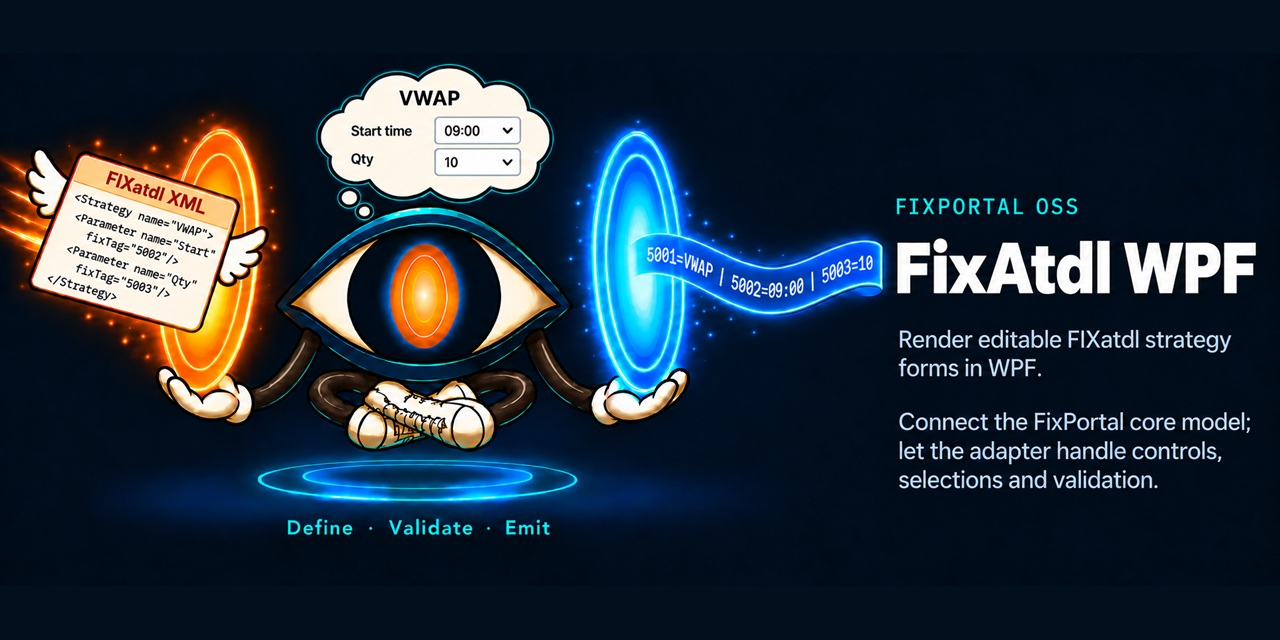
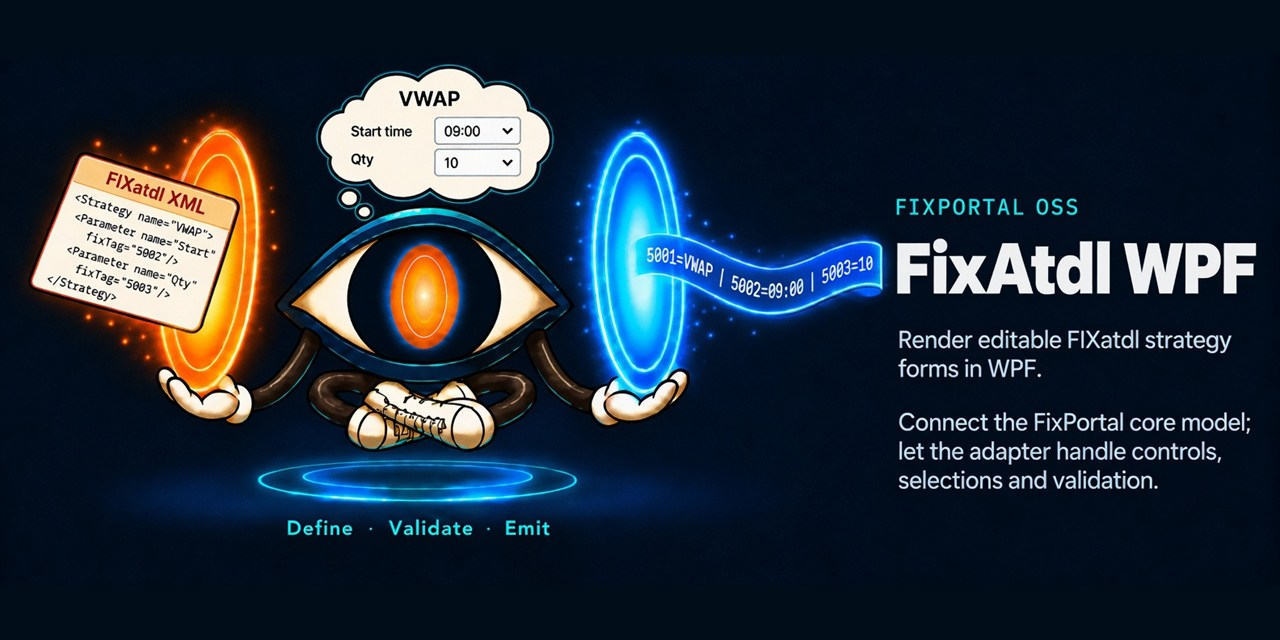
docs: drop wings from the README hero
The XML card on the banner no longer has angel wings. Same
composition, same README URL. Social preview regenerated to match.

diff --git a/CHANGELOG.md b/CHANGELOG.md
@@ -46,6 +46,8 @@ sees. Both packages version together.
   moved from `1,3,1,3` to `2,5,2,5`.
 - Control labels are vertically centred against their control and separated
   from it by 8px. They were top-aligned with no gap at all.
+- README hero and GitHub social preview drop the angel wings from the XML
+  card. The markdown image URL is unchanged.
 
 ### Fixed
 
